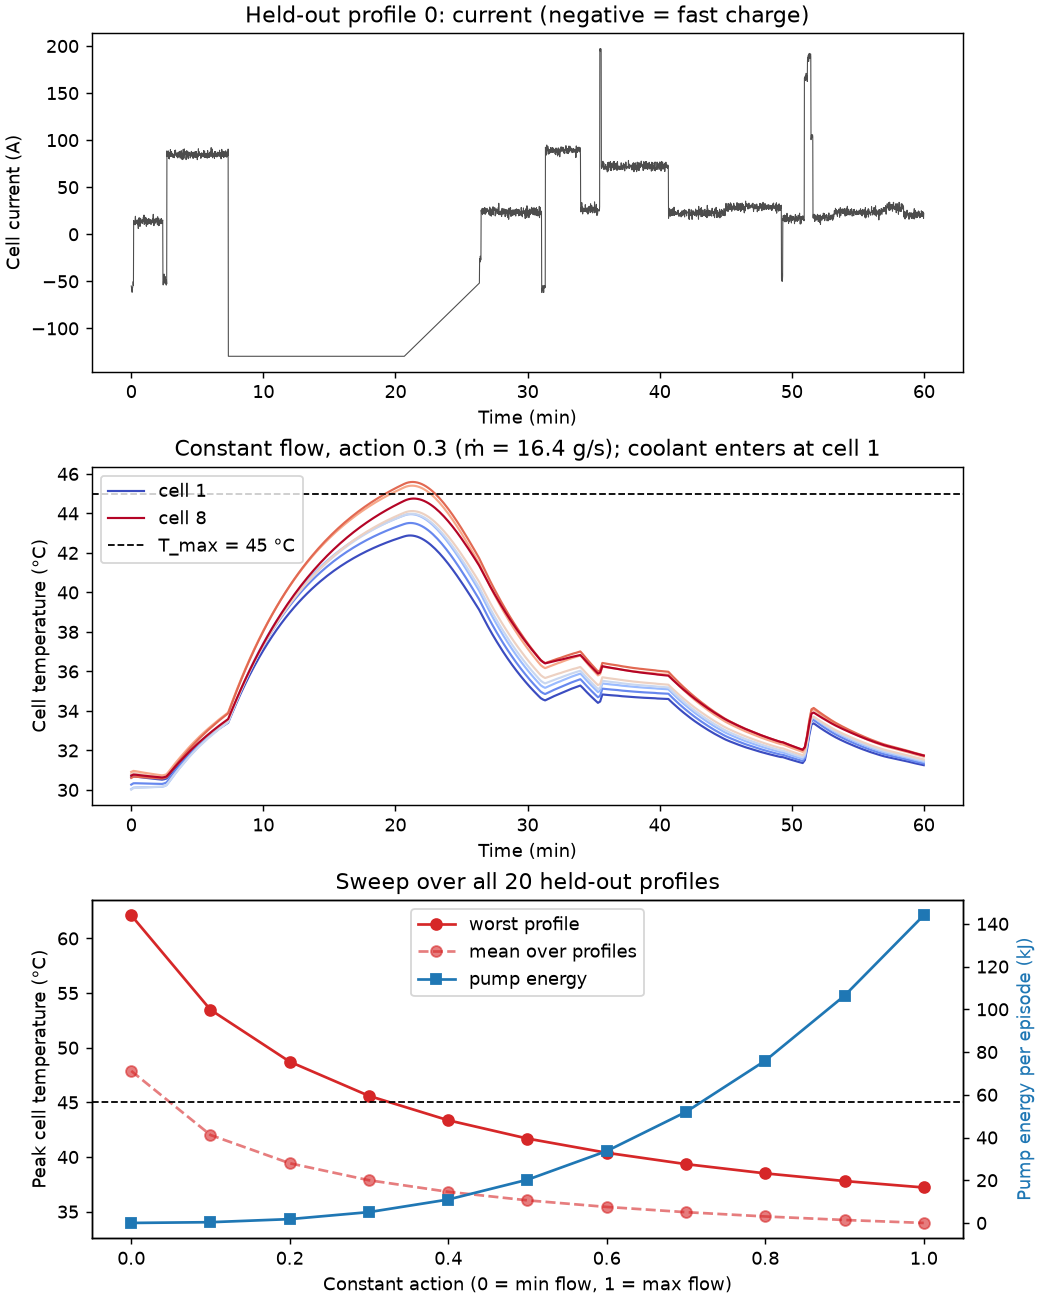
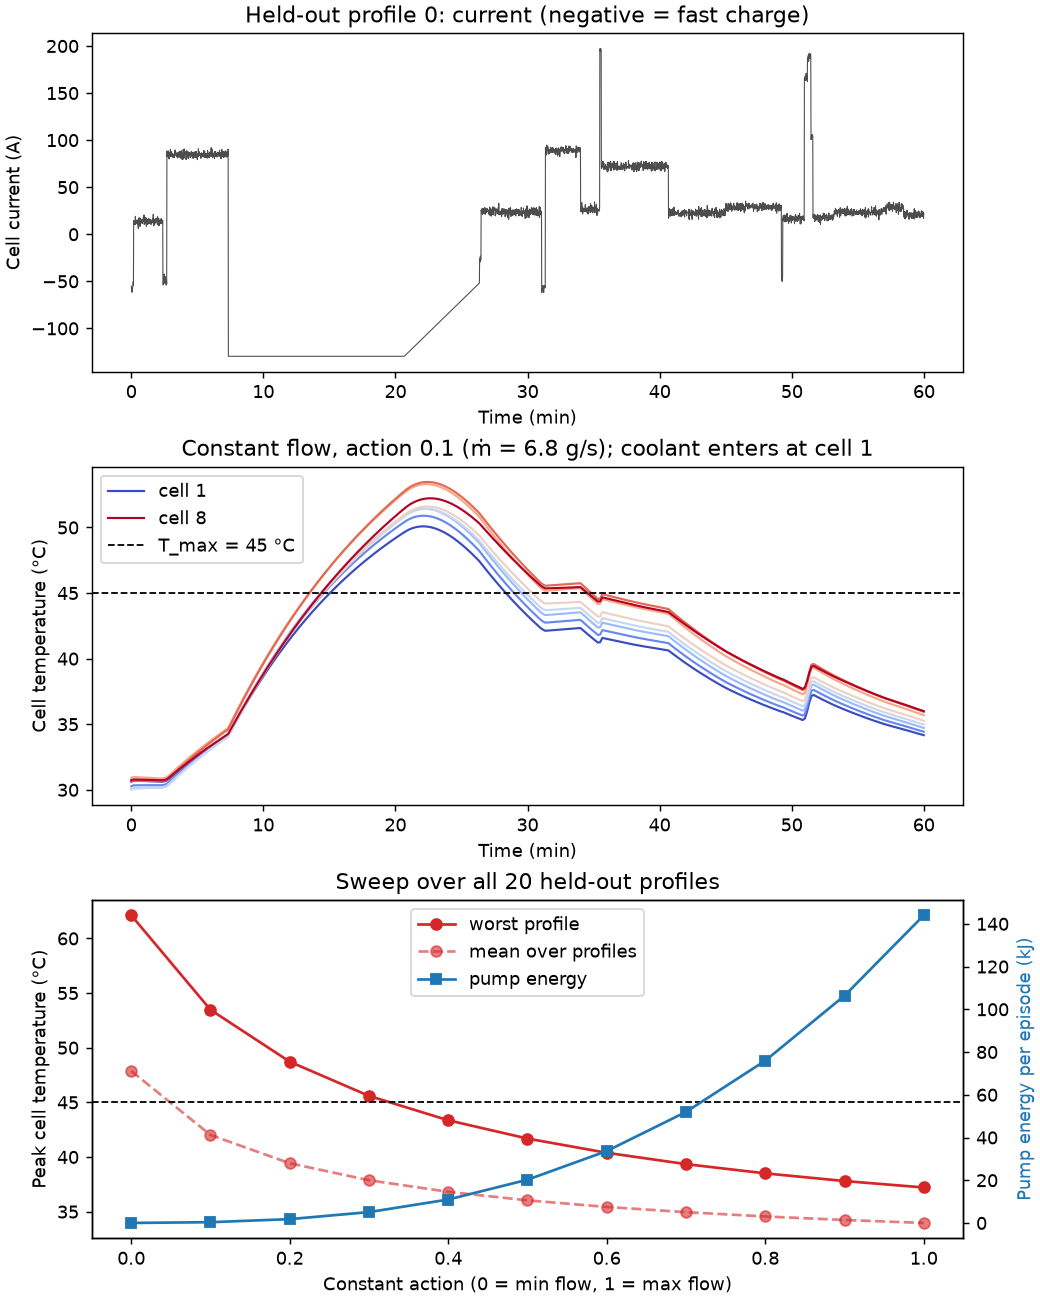
Stop CI double-running, make worktree test runs hermetic, show the failure mode in the M1 figure
Three unrelated small fixes. CI triggered on every push and on pull_request with no branch filter, so each PR ran pytest twice on the same commit; push now triggers only on main and branch pushes are covered by the PR check. pytest gained pythonpath = ["src"], because in a git worktree the editable install resolves to the main checkout and a plain pytest silently tests the wrong source tree. The M1 sanity figure's example action now defaults to 0.1 instead of 0.3, where cells actually cross T_max: a sanity figure should show the failure mode, not approach it. The sweep CSV is unchanged by the figure regeneration, which is a further check that the sweep is deterministic.

Changed region(s): [[0.1231, 0.3385, 0.8923, 0.6154], [0.0615, 0.4615, 0.0923, 0.5846], [0.0615, 0.3385, 0.0923, 0.4308]]

diff --git a/scripts/plot_constant_flow.py b/scripts/plot_constant_flow.py
@@ -58,7 +58,14 @@ def sweep(env) -> pd.DataFrame:
 
 def main():
     ap = argparse.ArgumentParser(description=__doc__)
-    ap.add_argument("--example-action", type=float, default=0.3)
+    ap.add_argument(
+        "--example-action",
+        type=float,
+        default=0.1,
+        help="Constant action drawn in the middle panel. The default sits low enough that "
+        "cells cross T_max, so the sanity figure shows the failure mode rather than "
+        "approaching it.",
+    )
     args = ap.parse_args()
 
     env = BatteryPackCoolingEnv(split="test")
